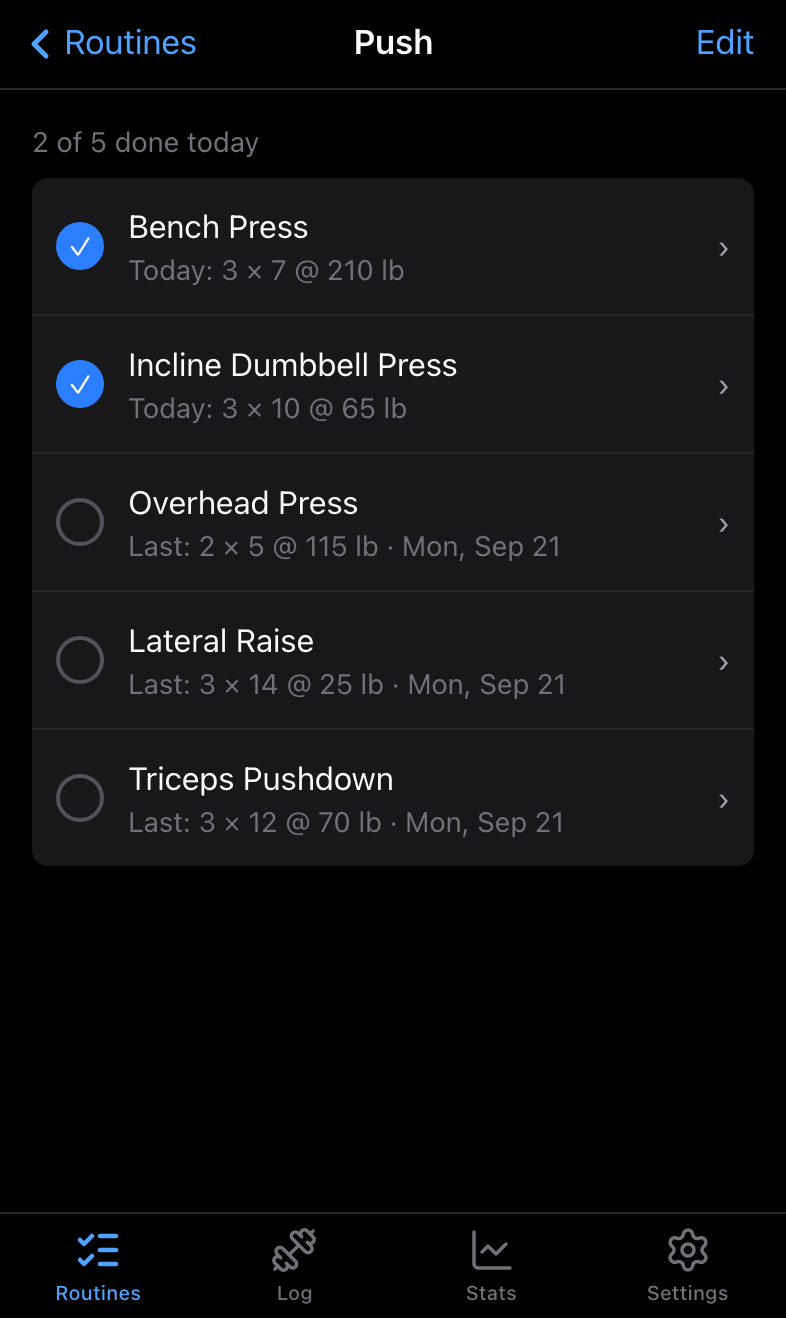
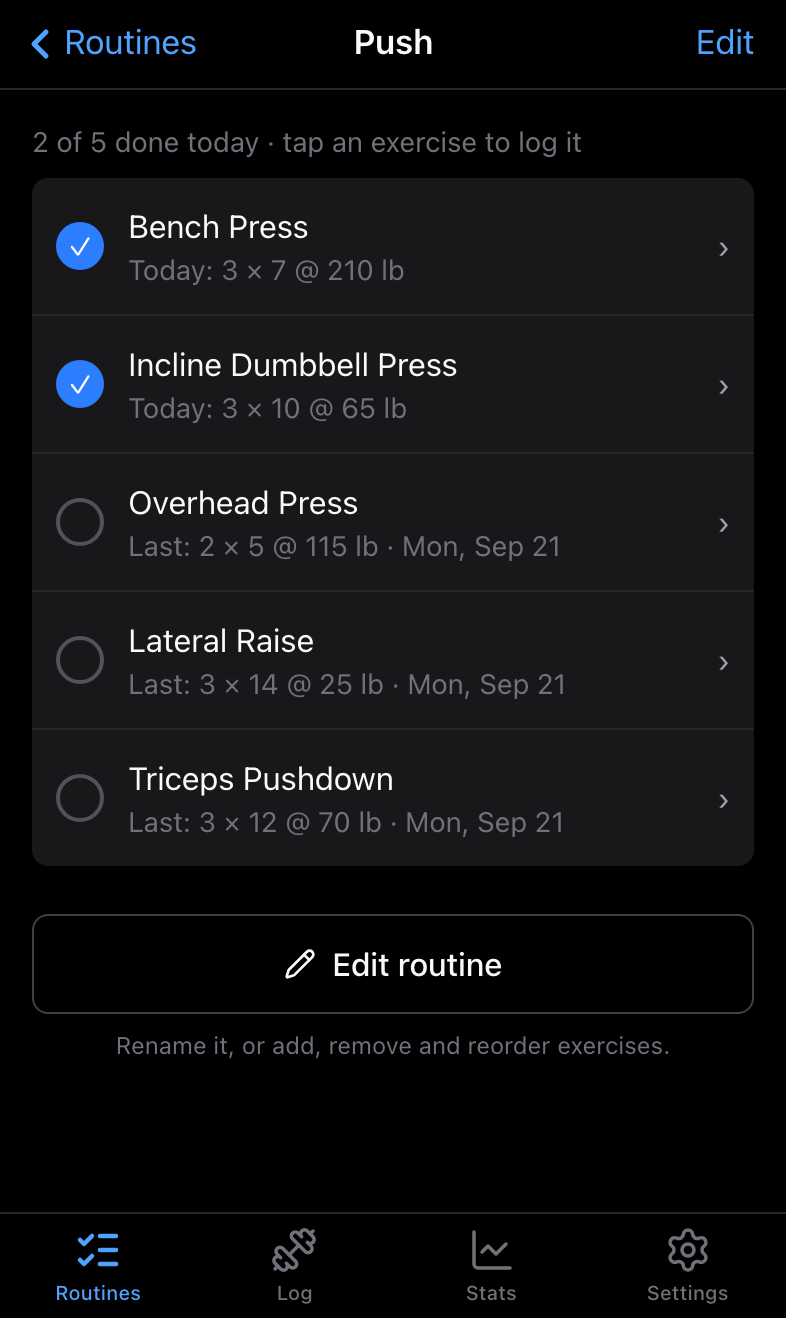
Routines: preview templates before adding; clearer editing
Tapping a template now opens a preview listing each routine and its
exercises, with an "Add these N routines" button, instead of creating
them immediately. Afterwards the Routines list shows a banner saying what
was added and that Edit changes a routine's exercises. A routine's screen
gets a visible "Edit routine" button and a "tap an exercise to log it"
hint. Guide and screenshots updated.

diff --git a/src/components/routines/template-picker.tsx b/src/components/routines/template-picker.tsx
@@ -1,54 +1,26 @@
-"use client";
-
 import { ChevronRight } from "lucide-react";
-import { useFormStatus } from "react-dom";
+import Link from "next/link";
 
 import { ROUTINE_TEMPLATES } from "@/lib/routine-templates";
 
-import { createRoutinesFromTemplate } from "./actions";
-
-// One button per template; tapping one creates all its routines.
+// One row per template; tapping one opens a preview of what it would add.
 export function TemplatePicker() {
   return (
     <ul className="divide-y divide-zinc-200 overflow-hidden rounded-lg bg-white text-left dark:divide-zinc-800 dark:bg-zinc-900">
       {ROUTINE_TEMPLATES.map((template) => (
         <li key={template.id}>
-          <form action={createRoutinesFromTemplate.bind(null, template.id)}>
-            <TemplateButton
-              name={template.name}
-              description={template.description}
-              routineNames={template.routines.map((r) => r.name)}
-            />
-          </form>
+          <Link
+            href={`/routines/templates/${template.id}`}
+            className="flex w-full items-center gap-3 px-4 py-3 active:bg-zinc-100 dark:active:bg-zinc-800"
+          >
+            <span className="min-w-0 flex-1">
+              <span className="block font-medium text-zinc-950 dark:text-zinc-50">{template.name}</span>
+              <span className="block text-sm text-zinc-500">{template.description}</span>
+            </span>
+            <ChevronRight className="size-5 shrink-0 text-zinc-400" aria-hidden />
+          </Link>
         </li>
       ))}
     </ul>
-  );
-}
-
-function TemplateButton({
-  name,
-  description,
-  routineNames,
-}: {
-  name: string;
-  description: string;
-  routineNames: string[];
-}) {
-  const { pending } = useFormStatus();
-  return (
-    <button
-      disabled={pending}
-      aria-label={`Create ${routineNames.join(", ")} from the ${name} template`}
-      className="flex w-full items-center gap-3 px-4 py-3 text-left active:bg-zinc-100 disabled:opacity-50 dark:active:bg-zinc-800"
-    >
-      <span className="min-w-0 flex-1">
-        <span className="block font-medium text-zinc-950 dark:text-zinc-50">
-          {pending ? "Creating…" : name}
-        </span>
-        <span className="block text-sm text-zinc-500">{description}</span>
-      </span>
-      <ChevronRight className="size-5 shrink-0 text-zinc-400" aria-hidden />
-    </button>
   );
 }

diff --git a/src/components/routines/routine-list.tsx b/src/components/routines/routine-list.tsx
@@ -1,6 +1,6 @@
 "use client";
 
-import { ChevronRight, ListChecks } from "lucide-react";
+import { CircleCheck, ChevronRight, ListChecks, X } from "lucide-react";
 import Link from "next/link";
 
 import { formatDay } from "@/lib/entry-format";
@@ -17,13 +17,41 @@ type Routine = {
 };
 
 
-export function RoutineList({ routines }: { routines: Routine[] }) {
+// "Push, Pull and Legs"
+function listNames(names: string[]) {
+  return names.length > 1 ? `${names.slice(0, -1).join(", ")} and ${names.at(-1)}` : names[0];
+}
+
+export function RoutineList({
+  routines,
+  justAdded,
+}: {
+  routines: Routine[];
+  // Names of routines just added from a template, to confirm what happened.
+  justAdded?: string[];
+}) {
   const today = useLocalToday();
 
   if (routines.length === 0) return <EmptyState />;
 
   return (
-    <ul className="divide-y divide-zinc-200 overflow-hidden rounded-lg bg-white dark:divide-zinc-800 dark:bg-zinc-900">
+    <div className="flex flex-col gap-4">
+      {justAdded && (
+        <div
+          role="status"
+          className="flex gap-3 rounded-lg bg-blue-50 p-3 text-sm text-blue-950 dark:bg-blue-950 dark:text-blue-100"
+        >
+          <CircleCheck className="mt-0.5 size-5 shrink-0 text-blue-600 dark:text-blue-400" aria-hidden />
+          <p className="flex-1">
+            Added {listNames(justAdded)}. Open one to use it at the gym, and tap{" "}
+            <span className="font-semibold">Edit</span> inside to change its exercises.
+          </p>
+          <Link href="/routines" aria-label="Dismiss" className="shrink-0 text-blue-600 dark:text-blue-400">
+            <X className="size-5" aria-hidden />
+          </Link>
+        </div>
+      )}
+      <ul className="divide-y divide-zinc-200 overflow-hidden rounded-lg bg-white dark:divide-zinc-800 dark:bg-zinc-900">
       {routines.map((routine) => {
         const total = routine.lastLogged.length;
         const done = today ? routine.lastLogged.filter((date) => date === today).length : 0;
@@ -59,7 +87,8 @@ export function RoutineList({ routines }: { routines: Routine[] }) {
           </li>
         );
       })}
-    </ul>
+      </ul>
+    </div>
   );
 }
 

diff --git a/src/app/(app)/routines/templates/[id]/page.tsx b/src/app/(app)/routines/templates/[id]/page.tsx
@@ -1,0 +1,45 @@
+import { notFound } from "next/navigation";
+
+import { AddTemplateButton } from "@/components/routines/add-template-button";
+import { Screen } from "@/components/screen";
+import { requireUser } from "@/lib/auth";
+import { findTemplate } from "@/lib/routine-templates";
+
+// Preview of a template: what it adds, before anything is created.
+export default async function TemplatePage({ params }: PageProps<"/routines/templates/[id]">) {
+  await requireUser();
+  const template = findTemplate((await params).id);
+  if (!template) notFound();
+  const count = template.routines.length;
+
+  return (
+    <Screen title={template.name} back={{ href: "/routines", label: "Routines" }}>
+      <div className="flex flex-col gap-4">
+        <p className="text-zinc-600 dark:text-zinc-400">
+          Adds {count} routines to your list, with these exercises. You can rename them, reorder,
+          add or remove exercises afterwards.
+        </p>
+
+        {template.routines.map((routine) => (
+          <section key={routine.name} className="flex flex-col gap-1">
+            <h2 className="px-1 text-xs font-semibold tracking-wide text-zinc-500 uppercase">
+              {routine.name}
+            </h2>
+            <ol className="divide-y divide-zinc-200 overflow-hidden rounded-lg bg-white dark:divide-zinc-800 dark:bg-zinc-900">
+              {routine.exercises.map((exercise, i) => (
+                <li key={exercise} className="flex gap-3 px-4 py-2.5">
+                  <span className="w-4 shrink-0 text-right text-sm text-zinc-400 tabular-nums">{i + 1}</span>
+                  <span className="text-zinc-950 dark:text-zinc-50">{exercise}</span>
+                </li>
+              ))}
+            </ol>
+          </section>
+        ))}
+
+        <div className="sticky bottom-[calc(env(safe-area-inset-bottom)+4rem)] -mx-4 bg-zinc-50/95 px-4 pt-2 pb-2 dark:bg-black/95">
+          <AddTemplateButton templateId={template.id} count={count} />
+        </div>
+      </div>
+    </Screen>
+  );
+}

diff --git a/src/app/(app)/routines/page.tsx b/src/app/(app)/routines/page.tsx
@@ -4,12 +4,16 @@ import type { Metadata } from "next";
 import { RoutineList } from "@/components/routines/routine-list";
 import { Screen, ScreenAction } from "@/components/screen";
 import { requireUser } from "@/lib/auth";
+import { findTemplate } from "@/lib/routine-templates";
 import { listRoutines } from "@/lib/routines";
 
 export const metadata: Metadata = { title: "Routines · Workout Tracker" };
 
-export default async function RoutinesPage() {
+export default async function RoutinesPage({ searchParams }: PageProps<"/routines">) {
   const user = await requireUser();
+  // Just added from a template (see createRoutinesFromTemplate).
+  const { added } = await searchParams;
+  const addedTemplate = typeof added === "string" ? findTemplate(added) : undefined;
   return (
     <Screen
       title="Routines"
@@ -19,7 +23,10 @@ export default async function RoutinesPage() {
         </ScreenAction>
       }
     >
-      <RoutineList routines={await listRoutines(user.id)} />
+      <RoutineList
+        routines={await listRoutines(user.id)}
+        justAdded={addedTemplate?.routines.map((r) => r.name)}
+      />
     </Screen>
   );
 }

diff --git a/src/app/(app)/routines/[id]/page.tsx b/src/app/(app)/routines/[id]/page.tsx
@@ -1,3 +1,4 @@
+import { Pencil } from "lucide-react";
 import Link from "next/link";
 import { notFound } from "next/navigation";
 
@@ -31,7 +32,19 @@ export default async function RoutinePage({ params }: PageProps<"/routines/[id]"
           .
         </p>
       ) : (
-        <RoutineChecklist routineId={routine.id} items={items} />
+        <div className="flex flex-col gap-6">
+          <RoutineChecklist routineId={routine.id} items={items} />
+          <Link
+            href={`/routines/${routine.id}/edit`}
+            className="flex items-center justify-center gap-2 rounded-lg border border-zinc-300 py-3 font-medium text-zinc-950 active:bg-zinc-100 dark:border-zinc-700 dark:text-zinc-50 dark:active:bg-zinc-900"
+          >
+            <Pencil className="size-4" aria-hidden />
+            Edit routine
+          </Link>
+          <p className="-mt-4 text-center text-xs text-zinc-500">
+            Rename it, or add, remove and reorder exercises.
+          </p>
+        </div>
       )}
     </Screen>
   );

diff --git a/src/components/routines/add-template-button.tsx b/src/components/routines/add-template-button.tsx
@@ -1,0 +1,25 @@
+"use client";
+
+import { useFormStatus } from "react-dom";
+
+import { createRoutinesFromTemplate } from "./actions";
+
+export function AddTemplateButton({ templateId, count }: { templateId: string; count: number }) {
+  return (
+    <form action={createRoutinesFromTemplate.bind(null, templateId)}>
+      <SubmitButton label={`Add these ${count} routines`} />
+    </form>
+  );
+}
+
+function SubmitButton({ label }: { label: string }) {
+  const { pending } = useFormStatus();
+  return (
+    <button
+      disabled={pending}
+      className="w-full rounded-lg bg-blue-600 py-3 font-medium text-white disabled:opacity-50 dark:bg-blue-500"
+    >
+      {pending ? "Adding…" : label}
+    </button>
+  );
+}

diff --git a/src/components/routines/routine-checklist.tsx b/src/components/routines/routine-checklist.tsx
@@ -21,7 +21,7 @@ export function RoutineChecklist({
   return (
     <div className="flex flex-col gap-2">
       <p className="text-sm text-zinc-500" aria-live="polite">
-        {today ? `${done} of ${items.length} done today` : " "}
+        {today ? `${done} of ${items.length} done today · tap an exercise to log it` : " "}
       </p>
       <ul className="divide-y divide-zinc-200 overflow-hidden rounded-lg bg-white dark:divide-zinc-800 dark:bg-zinc-900">
         {items.map((item) => {

diff --git a/src/components/routines/actions.ts b/src/components/routines/actions.ts
@@ -56,7 +56,8 @@ export async function createRoutinesFromTemplate(templateId: string) {
   const template = findTemplate(templateId);
   if (!template) return;
   await applyRoutineTemplate(user.id, template);
-  redirect("/routines");
+  // The list shows a note about what was just added.
+  redirect(`/routines?added=${template.id}`);
 }
 
 export async function renameRoutine(

diff --git a/docs/how-it-works.md b/docs/how-it-works.md
@@ -68,10 +68,11 @@ them.
   </tr>
 </table>
 
-- **Start from a template** to get going in one tap: **Push / Pull / Legs**
+- **Start from a template** to get going quickly: **Push / Pull / Legs**
   (3 routines) or **Upper / Lower** (4 routines), filled with common exercises.
-  Edit them however you like afterwards. Templates are on the empty Routines
-  screen and under **+**.
+  Tapping one shows exactly which routines and exercises it adds; tap **Add these
+  routines** to add them, then edit them however you like. Templates are on the
+  empty Routines screen and under **+**.
 - **Or create one yourself** with **+** (or **Create your first routine**), then
   add exercises: search, and tap each one.
 - **The list** shows each routine's exercises and when you **last did it**, so you
@@ -81,13 +82,25 @@ them.
   logged something for it today, it gets a ✓, and the routine shows "2 of 5 done
   today". There's nothing to tick by hand, and it resets automatically the next
   day.
-- **Edit** (top right) to rename the routine, reorder exercises with ↑ ↓, remove
-  them with ✕, add more, or delete the routine. Changes save immediately.
+- **Edit routine** (the button under the list, or **Edit** at the top right) to
+  rename the routine, reorder exercises with ↑ ↓, remove them with ✕, add more,
+  or delete the routine. Changes save immediately.
   Deleting a routine never deletes what you've logged.
 - The same exercise can be in several routines (Squat in both "Lower 1" and
   "Lower 2", say).
 
-<img src="screenshots/edit-routine.png" width="260" alt="Editing a routine">
+<table>
+  <tr>
+    <td><img src="screenshots/template.png" width="260" alt="Previewing the Push / Pull / Legs template"></td>
+    <td><img src="screenshots/routines-added.png" width="260" alt="Routines just added from a template"></td>
+    <td><img src="screenshots/edit-routine.png" width="260" alt="Editing a routine"></td>
+  </tr>
+  <tr>
+    <td>A template shows what it adds first.</td>
+    <td>Then confirms what was added.</td>
+    <td>Edit any routine to make it yours.</td>
+  </tr>
+</table>
 
 ## Logging
 
